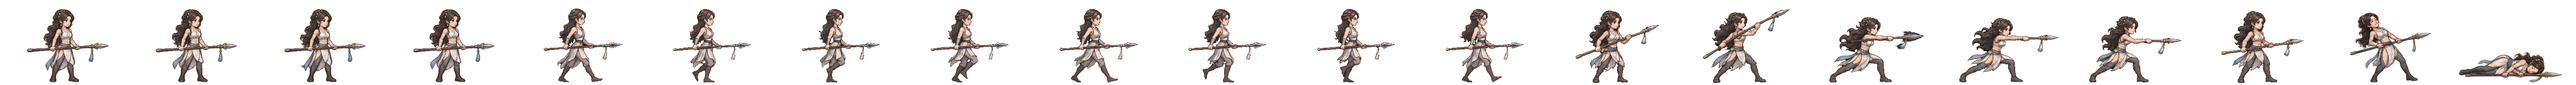
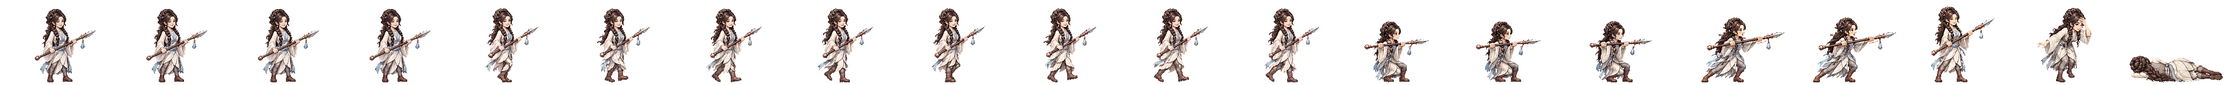
고룡 구름 새 전투 띠를 게임에 (창 · 새 찌르기 · 맞음 네 칸 · 개성 동작) · 끝까지 찌른 칸은 a4 로 · 자루 곧음 6배 확인
Claude-Session: https://claude.ai/code/session_01TRiuN7s6aDfSnaHxrkctmU

Changed region(s): [[0.0, 0.0938, 1.0, 0.9688]]

diff --git a/src/realm/data/spritePx.ts b/src/realm/data/spritePx.ts
@@ -1,3 +1,3 @@
 /** public/realm/anim-px/manifest.json 의 사본 — tools/sprite-normalize.mjs 가 만든다 (손으로 고치지 말 것). 칸 [가로, 세로] · feet = 발 줄(칸 위에서 y) · bodyPx = 서 있는 몸 키 */
 import { expandManifest } from './sprite-manifest.ts'
-export const SPRITE_PX: Readonly<Record<string, { readonly cell: readonly [number, number]; readonly feet: number; readonly bodyPx: number; readonly kind: 'general' | 'soldier' | 'folk' | 'crowd'; readonly cells: number }>> = expandManifest<{ readonly cell: readonly [number, number]; readonly feet: number; readonly bodyPx: number; readonly kind: 'general' | 'soldier' | 'folk' | 'crowd'; readonly cells: number }>([{"cell":[166,128],"feet":126,"bodyPx":124,"kind":"soldier","cells":20},{"cell":[116,128],"feet":126,"bodyPx":117,"kind":"soldier","cells":20},{"cell":[127,128],"feet":126,"bodyPx":116,"kind":"soldier","cells":20},{"cell":[269,128],"feet":126,"bodyPx":126,"kind":"soldier","cells":20},{"cell":[503,128],"feet":126,"bodyPx":127,"kind":"soldier","cells":20},{"cell":[614,128],"feet":126,"bodyPx":126,"kind":"soldier","cells":20},{"cell":[200,160],"feet":156,"bodyPx":138,"kind":"general","cells":20},{"cell":[208,160],"feet":155,"bodyPx":138,"kind":"general","cells":20},{"cell":[208,160],"feet":154,"bodyPx":138,"kind":"general","cells":20},{"cell":[304,160],"feet":155,"bodyPx":135,"kind":"general","cells":20},{"cell":[184,160],"feet":156,"bodyPx":138,"kind":"general","cells":20},{"cell":[208,160],"feet":154,"bodyPx":136,"kind":"general","cells":20},{"cell":[232,160],"feet":156,"bodyPx":138,"kind":"general","cells":20},{"cell":[208,160],"feet":156,"bodyPx":138,"kind":"general","cells":20},{"cell":[168,160],"feet":156,"bodyPx":124,"kind":"general","cells":20},{"cell":[216,160],"feet":156,"bodyPx":130,"kind":"general","cells":20},{"cell":[200,160],"feet":156,"bodyPx":116,"kind":"general","cells":20},{"cell":[192,160],"feet":156,"bodyPx":138,"kind":"general","cells":20},{"cell":[200,160],"feet":156,"bodyPx":135,"kind":"general","cells":20},{"cell":[280,160],"feet":156,"bodyPx":138,"kind":"general","cells":20},{"cell":[232,160],"feet":155,"bodyPx":138,"kind":"general","cells":20},{"cell":[232,160],"feet":156,"bodyPx":134,"kind":"general","cells":20},{"cell":[144,160],"feet":156,"bodyPx":70,"kind":"general","cells":20},{"cell":[208,160],"feet":156,"bodyPx":70,"kind":"general","cells":20},{"cell":[192,160],"feet":156,"bodyPx":70,"kind":"general","cells":20},{"cell":[240,160],"feet":155,"bodyPx":138,"kind":"general","cells":20},{"cell":[160,160],"feet":156,"bodyPx":135,"kind":"general","cells":20},{"cell":[192,160],"feet":156,"bodyPx":128,"kind":"general","cells":20},{"cell":[224,160],"feet":155,"bodyPx":138,"kind":"general","cells":20},{"cell":[232,160],"feet":156,"bodyPx":139,"kind":"general","cells":20},{"cell":[216,160],"feet":156,"bodyPx":138,"kind":"general","cells":20},{"cell":[208,160],"feet":156,"bodyPx":134,"kind":"general","cells":20},{"cell":[176,160],"feet":156,"bodyPx":130,"kind":"general","cells":20},{"cell":[248,160],"feet":156,"bodyPx":138,"kind":"general","cells":20},{"cell":[248,160],"feet":155,"bodyPx":138,"kind":"general","cells":20},{"cell":[192,160],"feet":155,"bodyPx":138,"kind":"general","cells":20},{"cell":[192,160],"feet":156,"bodyPx":124,"kind":"general","cells":20},{"cell":[208,160],"feet":154,"bodyPx":131,"kind":"general","cells":20},{"cell":[256,160],"feet":156,"bodyPx":138,"kind":"general","cells":20},{"cell":[240,160],"feet":156,"bodyPx":138,"kind":"general","cells":20},{"cell":[232,160],"feet":156,"bodyPx":73,"kind":"general","cells":20},{"cell":[256,160],"feet":155,"bodyPx":138,"kind":"general","cells":20},{"cell":[264,160],"feet":156,"bodyPx":138,"kind":"general","cells":20},{"cell":[224,160],"feet":156,"bodyPx":138,"kind":"general","cells":20},{"cell":[224,160],"feet":156,"bodyPx":128,"kind":"general","cells":20},{"cell":[176,160],"feet":156,"bodyPx":129,"kind":"general","cells":20},{"cell":[208,160],"feet":154,"bodyPx":139,"kind":"general","cells":20},{"cell":[208,160],"feet":156,"bodyPx":132,"kind":"general","cells":20},{"cell":[208,160],"feet":154,"bodyPx":137,"kind":"general","cells":20},{"cell":[184,160],"feet":156,"bodyPx":122,"kind":"general","cells":20},{"cell":[176,160],"feet":156,"bodyPx":138,"kind":"general","cells":20},{"cell":[280,160],"feet":155,"bodyPx":133,"kind":"general","cells":20},{"cell":[176,160],"feet":156,"bodyPx":70,"kind":"general","cells":20},{"cell":[186,128],"feet":126,"bodyPx":127,"kind":"soldier","cells":20},{"cell":[298,128],"feet":126,"bodyPx":126,"kind":"soldier","cells":20},{"cell":[82,128],"feet":126,"bodyPx":114,"kind":"folk","cells":8},{"cell":[134,128],"feet":126,"bodyPx":119,"kind":"soldier","cells":20},{"cell":[380,128],"feet":126,"bodyPx":124,"kind":"soldier","cells":20},{"cell":[114,128],"feet":126,"bodyPx":115,"kind":"soldier","cells":20},{"cell":[122,128],"feet":126,"bodyPx":114,"kind":"soldier","cells":20},{"cell":[254,128],"feet":126,"bodyPx":128,"kind":"soldier","cells":20},{"cell":[438,128],"feet":126,"bodyPx":126,"kind":"soldier","cells":20},{"cell":[88,128],"feet":126,"bodyPx":113,"kind":"folk","cells":8},{"cell":[100,128],"feet":126,"bodyPx":115,"kind":"folk","cells":8},{"cell":[108,128],"feet":126,"bodyPx":115,"kind":"folk","cells":8},{"cell":[63,128],"feet":126,"bodyPx":113,"kind":"folk","cells":8},{"cell":[69,96],"feet":96,"bodyPx":96,"kind":"crowd","cells":1},{"cell":[54,96],"feet":96,"bodyPx":96,"kind":"crowd","cells":1},{"cell":[47,96],"feet":96,"bodyPx":96,"kind":"crowd","cells":1},{"cell":[49,96],"feet":96,"bodyPx":96,"kind":"crowd","cells":1},{"cell":[57,96],"feet":96,"bodyPx":96,"kind":"crowd","cells":1},{"cell":[55,96],"feet":96,"bodyPx":96,"kind":"crowd","cells":1},{"cell":[45,96],"feet":96,"bodyPx":96,"kind":"crowd","cells":1},{"cell":[53,96],"feet":96,"bodyPx":96,"kind":"crowd","cells":1},{"cell":[64,96],"feet":96,"bodyPx":96,"kind":"crowd","cells":1},{"cell":[184,160],"feet":156,"bodyPx":124,"kind":"general","cells":20},{"cell":[184,160],"feet":156,"bodyPx":134,"kind":"general","cells":20},{"cell":[224,160],"feet":156,"bodyPx":133,"kind":"general","cells":20},{"cell":[192,160],"feet":156,"bodyPx":135,"kind":"general","cells":20},{"cell":[184,160],"feet":156,"bodyPx":137,"kind":"general","cells":20},{"cell":[216,160],"feet":156,"bodyPx":134,"kind":"general","cells":20},{"cell":[216,160],"feet":156,"bodyPx":132,"kind":"general","cells":20},{"cell":[288,160],"feet":156,"bodyPx":138,"kind":"general","cells":20},{"cell":[192,160],"feet":156,"bodyPx":118,"kind":"general","cells":20},{"cell":[208,160],"feet":154,"bodyPx":134,"kind":"general","cells":20},{"cell":[208,160],"feet":154,"bodyPx":128,"kind":"general","cells":20},{"cell":[240,160],"feet":156,"bodyPx":128,"kind":"general","cells":20},{"cell":[184,160],"feet":156,"bodyPx":132,"kind":"general","cells":20},{"cell":[208,160],"feet":156,"bodyPx":123,"kind":"general","cells":20},{"cell":[176,160],"feet":156,"bodyPx":116,"kind":"general","cells":20},{"cell":[272,160],"feet":156,"bodyPx":138,"kind":"general","cells":20},{"cell":[176,160],"feet":156,"bodyPx":122,"kind":"general","cells":20},{"cell":[232,160],"feet":156,"bodyPx":127,"kind":"general","cells":20},{"cell":[168,160],"feet":156,"bodyPx":138,"kind":"general","cells":20},{"cell":[176,160],"feet":156,"bodyPx":137,"kind":"general","cells":20},{"cell":[184,160],"feet":156,"bodyPx":133,"kind":"general","cells":20}],[["axe",0],["bandit-chief",1],["bandit-club",2],["boat",3],["bow",4],["crossbow",5],["gen-adogan",6],["gen-alpyeong",7],["gen-ara",8],["gen-areum",8],["gen-aryeong",9],["gen-bakdal",6],["gen-baram",8],["gen-bdanbi",10],["gen-beom",11],["gen-beombal",8],["gen-beomi",8],["gen-bira",12],["gen-biryu",13],["gen-budeul",8],["gen-byeol",8],["gen-daemusin",14],["gen-daeso",15],["gen-dallae2",10],["gen-dalli",8],["gen-damul",16],["gen-danbi",8],["gen-dangung",17],["gen-darae",18],["gen-dokmudeom",7],["gen-duman",19],["gen-eomni",20],["gen-eureum",21],["gen-g-bow",22],["gen-g-spear",23],["gen-g-sword",24],["gen-gaennae",6],["gen-gamsil",25],["gen-gaon",26],["gen-geota",13],["gen-geumbawi",10],["gen-geumha",27],["gen-goeun",13],["gen-gom",28],["gen-gomok",13],["gen-gureum",25],["gen-guryema",17],["gen-gwaeyu",12],["gen-haebi",8],["gen-haedal",6],["gen-haesol",29],["gen-halla",7],["gen-heo",8],["gen-hneoul",10],["gen-hogong",30],["gen-hojin",13],["gen-horselord",31],["gen-hwalmi",32],["gen-hyeokgeose",17],["gen-hyeopbo",6],["gen-irang",8],["gen-jibaekho",33],["gen-jinha",34],["gen-jita",35],["gen-jumong",36],["gen-keundol",7],["gen-maehwa",37],["gen-maenun",17],["gen-malgalgi",38],["gen-mari",39],["gen-maro",33],["gen-maryeo",13],["gen-mdallae",29],["gen-mir",6],["gen-mount",40],["gen-mulbeom",41],["gen-mulsae",30],["gen-musoe",30],["gen-noeul",8],["gen-nuri",42],["gen-ocheongan",43],["gen-odi",8],["gen-odogan",6],["gen-ogan",17],["gen-oi",44],["gen-olddaeso",21],["gen-onjo",45],["gen-pidogan",13],["gen-sagong",46],["gen-sdallae",6],["gen-sincheongan",30],["gen-singwigan",30],["gen-sinneoul",8],["gen-sobeol",20],["gen-soebi",6],["gen-soebo",47],["gen-soenun",33],["gen-sogeumbi",48],["gen-songbi",43],["gen-songyang",49],["gen-sori",50],["gen-soseono",51],["gen-suro",17],["gen-tahae",6],["gen-tneoul",8],["gen-w-bow",22],["gen-w-spear",52],["gen-waechief",13],["gen-wan",30],["gen-yeodogan",13],["gen-yucheongan",13],["gen-yusugan",33],["horse",53],["marine",54],["migrant",55],["militia",56],["pike",57],["pirate-captain",58],["pirate-sword",59],["shield",60],["spear",61],["villager-builder",62],["villager-farmer",63],["villager-porter",64],["villager-woman",65],["crowd-b1",66],["crowd-b2",67],["crowd-b3",68],["crowd-b4",69],["crowd-b5",70],["crowd-b6",71],["crowd-f1",66],["crowd-f2",71],["crowd-f3",72],["crowd-f4",73],["crowd-f5",66],["crowd-f6",74],["gen-dalbit",13],["gen-base-g-07-drunk-warrior",17],["gen-base-g-40-anya-adan",13],["gen-base-w-13-young-archer",8],["gen-base-g-03-sea-trader",39],["gen-base-w-10-pirate-captain",46],["gen-base-w-64-miri-dallae",46],["gen-base-g-41-goja-bau",39],["gen-base-g-42-dokro-garam",42],["gen-base-g-09-farmer-conscript",30],["gen-base-w-02-goguryeo-lady",30],["gen-base-w-17-mahan-pearl-diver",8],["gen-base-g-17-saro-isageum",47],["gen-base-g-18-daegaya-king",75],["gen-base-g-35-dabeol-dalgu",13],["gen-base-g-19-sabeol-veteran",30],["gen-base-w-23-usisan-whale-queen",8],["gen-base-g-36-gammun-gamdol",43],["gen-base-g-20-samul-sea-lord",38],["gen-base-g-37-eumjeup-jeup",10],["gen-base-g-38-chopal-palmae",17],["gen-base-w-75-daegaya-soemoe",17],["gen-base-g-45-dabeol-deulgae",10],["gen-base-g-04-jinhan-giant",13],["gen-base-g-08-veteran",13],["gen-base-w-18-jinhan-salt-widow",8],["gen-base-w-12-court-dancer",76],["gen-base-w-83-gyeonji-beodeul",77],["gen-base-w-05-baekje-queen",78],["gen-base-w-21-baekje-court-dancer",10],["gen-base-g-01-master-smith",79],["gen-base-g-93-jomun-solgae",32],["gen-base-g-57-bihwa-neup",39],["gen-base-w-72-eumjeup-beol",8],["gen-base-w-102-garak-dana",46],["gen-base-g-68-baekje-onnuri",13],["gen-base-w-27-mokji-jinha",6],["gen-base-g-22-ungcheon-gomnae",6],["gen-base-g-23-sangdang-soedal",13],["gen-base-g-24-wansan-onsan",6],["gen-base-g-25-balla-keunmoe",30],["gen-base-g-61-heomcheuk-bawi",30],["gen-base-g-88-wander-soeul",43],["gen-base-w-14-feast-spy",6],["gen-base-g-12-silla-youth",80],["gen-base-w-08-mahan-warrior",8],["gen-base-g-62-beonye-hanul",39],["gen-base-g-63-heomcheuk-beogeum",13],["gen-base-g-84-wander-seoneul",13],["gen-base-w-50-siljik-mulga",30],["gen-base-g-46-uga-nureongso",30],["gen-base-w-80-usan-gangchi",46],["gen-base-g-47-guga-sanyanggae",30],["gen-base-w-76-gampyeong-baetsagong",8],["gen-base-g-05-mahan-chieftain",81],["gen-base-g-58-usan-uhae",13],["gen-base-g-27-maek-maekdol",13],["gen-base-w-53-hwanna-gabi",46],["gen-base-w-29-golpo-janmul",33],["gen-base-g-53-baekje-haeru",6],["gen-base-w-71-yeonna-neoul",8],["gen-base-w-79-yangmaek-solmae",8],["gen-base-w-34-chopal-deulme",8],["gen-base-g-44-maga-malgup",82],["gen-base-w-31-dabeol-dalbit",46],["gen-base-g-51-biryuna-mulgyeol",43],["gen-base-g-48-gwanna-musoe",13],["gen-base-g-32-uga-sodu",12],["gen-base-g-49-goguryeo-sona",83],["gen-base-g-30-gwanna-soemoe",43],["gen-base-g-52-tamna-oreum",10],["gen-base-g-29-yeonna-myeongsol",36],["gen-base-w-56-dongokjeo-sogeum",84],["gen-base-g-54-mokji-mahan",12],["gen-base-g-33-jeoga-metdol",17],["gen-base-w-36-baekje-maena",8],["gen-base-w-38-sangdang-bulmae",6],["gen-base-w-39-gosaburi-galmae",8],["gen-base-w-40-mujin-munui",47],["gen-base-w-41-hwanna-beodeul",85],["gen-base-w-43-uga-nuri",38],["gen-base-w-45-tamna-oreumbi",10],["gen-base-g-60-golbeol-golgae",10],["gen-base-g-61-apdok-ap",30],["gen-base-g-62-gammun-gamnamu",6],["gen-base-g-63-chopal-yeoul",33],["gen-base-g-64-michuhol-sogeumkkun",39],["gen-base-g-65-sangdang-soemangchi",43],["gen-base-g-66-geonma-malbalgup",86],["gen-base-g-67-gosaburi-buri",87],["gen-base-g-68-mujin-bitgoeul",10],["gen-base-g-69-goryong-yong",43],["gen-base-g-70-siljik-pado",39],["gen-base-w-81-byeokjin-byeolbit",8],["gen-base-w-46-geonma-maru",8],["gen-base-w-48-mujin-mudeung",8],["gen-base-g-26-gampyeong-gaetbeol",12],["gen-base-g-60-eupcha-hangyeol",88],["gen-base-g-15-shaman-man",30],["gen-base-g-85-wander-ure",33],["gen-base-g-43-hwanna-amnok",13],["gen-base-g-50-bullae-gwaha",78],["gen-base-g-55-saro-bakdal",13],["gen-base-g-56-haseulla-gwahama",6],["gen-base-w-06-buyeo-huntress",48],["gen-base-w-22-dongye-tiger-huntress",8],["gen-base-w-25-bihwa-priestess",30],["gen-base-w-24-apdok-queen",10],["gen-base-w-61-iseo-sinae",13],["gen-base-w-26-iseo-tomboy-general",8],["gen-base-g-59-yangmaek-maekson",89],["gen-aw1-haebi",43],["gen-aw1-soseono",90],["gen-aw1-gamsil",10],["gen-aw1-mir",50],["gen-aw1-dangung",6],["gen-aw1-ara",43],["gen-aw1-jumong",91],["gen-aw1-onjo",92],["gen-aw1-base-w-83-gyeonji-beodeul",17],["gen-aw1-heo",42],["gen-aw1-base-g-38-chopal-palmae",6],["gen-aw1-base-w-25-bihwa-priestess",76],["gen-aw1-sori",93],["gen-aw1-gomok",6],["gen-aw1-irang",17],["gen-aw1-budeul",93],["gen-aw1-gom",39],["gen-aw1-sdallae",6],["gen-aw1-base-w-13-young-archer",6],["gen-aw1-base-w-36-baekje-maena",94],["gen-aw1-base-g-09-farmer-conscript",42],["gen-aw1-base-w-02-goguryeo-lady",95],["gen-aw1-haedal",10],["gen-aw1-hogong",6],["gen-aw1-maehwa",50],["gen-aw1-base-w-06-buyeo-huntress",12],["gen-aw1-base-w-08-mahan-warrior",43],["gen-aw1-base-w-29-golpo-janmul",43],["gen-aw1-base-w-31-dabeol-dalbit",17],["gen-aw1-base-w-38-sangdang-bulmae",93],["gen-aw1-bira",30],["gen-aw1-base-w-53-hwanna-gabi",93],["gen-aw1-base-w-56-dongokjeo-sogeum",50],["gen-aw1-base-w-72-eumjeup-beol",17],["gen-aw1-bdanbi",93],["gen-aw1-beom",10],["gen-aw1-beombal",10],["gen-aw1-byeol",17],["gen-aw1-dalli",50],["gen-aw1-malgalgi",33],["gen-aw1-sincheongan",30]])
+export const SPRITE_PX: Readonly<Record<string, { readonly cell: readonly [number, number]; readonly feet: number; readonly bodyPx: number; readonly kind: 'general' | 'soldier' | 'folk' | 'crowd'; readonly cells: number }>> = expandManifest<{ readonly cell: readonly [number, number]; readonly feet: number; readonly bodyPx: number; readonly kind: 'general' | 'soldier' | 'folk' | 'crowd'; readonly cells: number }>([{"cell":[166,128],"feet":126,"bodyPx":124,"kind":"soldier","cells":20},{"cell":[116,128],"feet":126,"bodyPx":117,"kind":"soldier","cells":20},{"cell":[127,128],"feet":126,"bodyPx":116,"kind":"soldier","cells":20},{"cell":[269,128],"feet":126,"bodyPx":126,"kind":"soldier","cells":20},{"cell":[503,128],"feet":126,"bodyPx":127,"kind":"soldier","cells":20},{"cell":[614,128],"feet":126,"bodyPx":126,"kind":"soldier","cells":20},{"cell":[200,160],"feet":156,"bodyPx":138,"kind":"general","cells":20},{"cell":[208,160],"feet":155,"bodyPx":138,"kind":"general","cells":20},{"cell":[208,160],"feet":154,"bodyPx":138,"kind":"general","cells":20},{"cell":[304,160],"feet":155,"bodyPx":135,"kind":"general","cells":20},{"cell":[184,160],"feet":156,"bodyPx":138,"kind":"general","cells":20},{"cell":[208,160],"feet":154,"bodyPx":136,"kind":"general","cells":20},{"cell":[232,160],"feet":156,"bodyPx":138,"kind":"general","cells":20},{"cell":[208,160],"feet":156,"bodyPx":138,"kind":"general","cells":20},{"cell":[168,160],"feet":156,"bodyPx":124,"kind":"general","cells":20},{"cell":[216,160],"feet":156,"bodyPx":130,"kind":"general","cells":20},{"cell":[200,160],"feet":156,"bodyPx":116,"kind":"general","cells":20},{"cell":[192,160],"feet":156,"bodyPx":138,"kind":"general","cells":20},{"cell":[200,160],"feet":156,"bodyPx":135,"kind":"general","cells":20},{"cell":[280,160],"feet":156,"bodyPx":138,"kind":"general","cells":20},{"cell":[232,160],"feet":155,"bodyPx":138,"kind":"general","cells":20},{"cell":[232,160],"feet":156,"bodyPx":134,"kind":"general","cells":20},{"cell":[144,160],"feet":156,"bodyPx":70,"kind":"general","cells":20},{"cell":[208,160],"feet":156,"bodyPx":70,"kind":"general","cells":20},{"cell":[192,160],"feet":156,"bodyPx":70,"kind":"general","cells":20},{"cell":[240,160],"feet":155,"bodyPx":138,"kind":"general","cells":20},{"cell":[160,160],"feet":156,"bodyPx":135,"kind":"general","cells":20},{"cell":[192,160],"feet":156,"bodyPx":128,"kind":"general","cells":20},{"cell":[224,160],"feet":155,"bodyPx":138,"kind":"general","cells":20},{"cell":[232,160],"feet":156,"bodyPx":139,"kind":"general","cells":20},{"cell":[216,160],"feet":156,"bodyPx":138,"kind":"general","cells":20},{"cell":[208,160],"feet":156,"bodyPx":134,"kind":"general","cells":20},{"cell":[176,160],"feet":156,"bodyPx":130,"kind":"general","cells":20},{"cell":[248,160],"feet":156,"bodyPx":138,"kind":"general","cells":20},{"cell":[248,160],"feet":155,"bodyPx":138,"kind":"general","cells":20},{"cell":[192,160],"feet":155,"bodyPx":138,"kind":"general","cells":20},{"cell":[192,160],"feet":156,"bodyPx":124,"kind":"general","cells":20},{"cell":[208,160],"feet":154,"bodyPx":131,"kind":"general","cells":20},{"cell":[256,160],"feet":156,"bodyPx":138,"kind":"general","cells":20},{"cell":[240,160],"feet":156,"bodyPx":138,"kind":"general","cells":20},{"cell":[232,160],"feet":156,"bodyPx":73,"kind":"general","cells":20},{"cell":[256,160],"feet":155,"bodyPx":138,"kind":"general","cells":20},{"cell":[264,160],"feet":156,"bodyPx":138,"kind":"general","cells":20},{"cell":[224,160],"feet":156,"bodyPx":138,"kind":"general","cells":20},{"cell":[224,160],"feet":156,"bodyPx":128,"kind":"general","cells":20},{"cell":[176,160],"feet":156,"bodyPx":129,"kind":"general","cells":20},{"cell":[208,160],"feet":154,"bodyPx":139,"kind":"general","cells":20},{"cell":[208,160],"feet":156,"bodyPx":132,"kind":"general","cells":20},{"cell":[208,160],"feet":154,"bodyPx":137,"kind":"general","cells":20},{"cell":[184,160],"feet":156,"bodyPx":122,"kind":"general","cells":20},{"cell":[176,160],"feet":156,"bodyPx":138,"kind":"general","cells":20},{"cell":[280,160],"feet":155,"bodyPx":133,"kind":"general","cells":20},{"cell":[176,160],"feet":156,"bodyPx":70,"kind":"general","cells":20},{"cell":[186,128],"feet":126,"bodyPx":127,"kind":"soldier","cells":20},{"cell":[298,128],"feet":126,"bodyPx":126,"kind":"soldier","cells":20},{"cell":[82,128],"feet":126,"bodyPx":114,"kind":"folk","cells":8},{"cell":[134,128],"feet":126,"bodyPx":119,"kind":"soldier","cells":20},{"cell":[380,128],"feet":126,"bodyPx":124,"kind":"soldier","cells":20},{"cell":[114,128],"feet":126,"bodyPx":115,"kind":"soldier","cells":20},{"cell":[122,128],"feet":126,"bodyPx":114,"kind":"soldier","cells":20},{"cell":[254,128],"feet":126,"bodyPx":128,"kind":"soldier","cells":20},{"cell":[438,128],"feet":126,"bodyPx":126,"kind":"soldier","cells":20},{"cell":[88,128],"feet":126,"bodyPx":113,"kind":"folk","cells":8},{"cell":[100,128],"feet":126,"bodyPx":115,"kind":"folk","cells":8},{"cell":[108,128],"feet":126,"bodyPx":115,"kind":"folk","cells":8},{"cell":[63,128],"feet":126,"bodyPx":113,"kind":"folk","cells":8},{"cell":[69,96],"feet":96,"bodyPx":96,"kind":"crowd","cells":1},{"cell":[54,96],"feet":96,"bodyPx":96,"kind":"crowd","cells":1},{"cell":[47,96],"feet":96,"bodyPx":96,"kind":"crowd","cells":1},{"cell":[49,96],"feet":96,"bodyPx":96,"kind":"crowd","cells":1},{"cell":[57,96],"feet":96,"bodyPx":96,"kind":"crowd","cells":1},{"cell":[55,96],"feet":96,"bodyPx":96,"kind":"crowd","cells":1},{"cell":[45,96],"feet":96,"bodyPx":96,"kind":"crowd","cells":1},{"cell":[53,96],"feet":96,"bodyPx":96,"kind":"crowd","cells":1},{"cell":[64,96],"feet":96,"bodyPx":96,"kind":"crowd","cells":1},{"cell":[184,160],"feet":156,"bodyPx":124,"kind":"general","cells":20},{"cell":[184,160],"feet":156,"bodyPx":134,"kind":"general","cells":20},{"cell":[224,160],"feet":156,"bodyPx":133,"kind":"general","cells":20},{"cell":[192,160],"feet":156,"bodyPx":135,"kind":"general","cells":20},{"cell":[184,160],"feet":156,"bodyPx":137,"kind":"general","cells":20},{"cell":[216,160],"feet":156,"bodyPx":134,"kind":"general","cells":20},{"cell":[216,160],"feet":156,"bodyPx":132,"kind":"general","cells":20},{"cell":[288,160],"feet":156,"bodyPx":138,"kind":"general","cells":20},{"cell":[192,160],"feet":156,"bodyPx":118,"kind":"general","cells":20},{"cell":[208,160],"feet":154,"bodyPx":134,"kind":"general","cells":20},{"cell":[208,160],"feet":154,"bodyPx":128,"kind":"general","cells":20},{"cell":[240,160],"feet":156,"bodyPx":128,"kind":"general","cells":20},{"cell":[184,160],"feet":156,"bodyPx":132,"kind":"general","cells":20},{"cell":[208,160],"feet":156,"bodyPx":123,"kind":"general","cells":20},{"cell":[176,160],"feet":156,"bodyPx":116,"kind":"general","cells":20},{"cell":[272,160],"feet":156,"bodyPx":138,"kind":"general","cells":20},{"cell":[176,160],"feet":156,"bodyPx":122,"kind":"general","cells":20},{"cell":[232,160],"feet":156,"bodyPx":127,"kind":"general","cells":20},{"cell":[168,160],"feet":156,"bodyPx":138,"kind":"general","cells":20},{"cell":[176,160],"feet":156,"bodyPx":137,"kind":"general","cells":20},{"cell":[184,160],"feet":156,"bodyPx":133,"kind":"general","cells":20}],[["axe",0],["bandit-chief",1],["bandit-club",2],["boat",3],["bow",4],["crossbow",5],["gen-adogan",6],["gen-alpyeong",7],["gen-ara",8],["gen-areum",8],["gen-aryeong",9],["gen-bakdal",6],["gen-baram",8],["gen-bdanbi",10],["gen-beom",11],["gen-beombal",8],["gen-beomi",8],["gen-bira",12],["gen-biryu",13],["gen-budeul",8],["gen-byeol",8],["gen-daemusin",14],["gen-daeso",15],["gen-dallae2",10],["gen-dalli",8],["gen-damul",16],["gen-danbi",8],["gen-dangung",17],["gen-darae",18],["gen-dokmudeom",7],["gen-duman",19],["gen-eomni",20],["gen-eureum",21],["gen-g-bow",22],["gen-g-spear",23],["gen-g-sword",24],["gen-gaennae",6],["gen-gamsil",25],["gen-gaon",26],["gen-geota",13],["gen-geumbawi",10],["gen-geumha",27],["gen-goeun",13],["gen-gom",28],["gen-gomok",13],["gen-gureum",8],["gen-guryema",17],["gen-gwaeyu",12],["gen-haebi",8],["gen-haedal",6],["gen-haesol",29],["gen-halla",7],["gen-heo",8],["gen-hneoul",10],["gen-hogong",30],["gen-hojin",13],["gen-horselord",31],["gen-hwalmi",32],["gen-hyeokgeose",17],["gen-hyeopbo",6],["gen-irang",8],["gen-jibaekho",33],["gen-jinha",34],["gen-jita",35],["gen-jumong",36],["gen-keundol",7],["gen-maehwa",37],["gen-maenun",17],["gen-malgalgi",38],["gen-mari",39],["gen-maro",33],["gen-maryeo",13],["gen-mdallae",29],["gen-mir",6],["gen-mount",40],["gen-mulbeom",41],["gen-mulsae",30],["gen-musoe",30],["gen-noeul",8],["gen-nuri",42],["gen-ocheongan",43],["gen-odi",8],["gen-odogan",6],["gen-ogan",17],["gen-oi",44],["gen-olddaeso",21],["gen-onjo",45],["gen-pidogan",13],["gen-sagong",46],["gen-sdallae",6],["gen-sincheongan",30],["gen-singwigan",30],["gen-sinneoul",8],["gen-sobeol",20],["gen-soebi",6],["gen-soebo",47],["gen-soenun",33],["gen-sogeumbi",48],["gen-songbi",43],["gen-songyang",49],["gen-sori",50],["gen-soseono",51],["gen-suro",17],["gen-tahae",6],["gen-tneoul",8],["gen-w-bow",22],["gen-w-spear",52],["gen-waechief",13],["gen-wan",30],["gen-yeodogan",13],["gen-yucheongan",13],["gen-yusugan",33],["horse",53],["marine",54],["migrant",55],["militia",56],["pike",57],["pirate-captain",58],["pirate-sword",59],["shield",60],["spear",61],["villager-builder",62],["villager-farmer",63],["villager-porter",64],["villager-woman",65],["crowd-b1",66],["crowd-b2",67],["crowd-b3",68],["crowd-b4",69],["crowd-b5",70],["crowd-b6",71],["crowd-f1",66],["crowd-f2",71],["crowd-f3",72],["crowd-f4",73],["crowd-f5",66],["crowd-f6",74],["gen-dalbit",13],["gen-base-g-07-drunk-warrior",17],["gen-base-g-40-anya-adan",13],["gen-base-w-13-young-archer",8],["gen-base-g-03-sea-trader",39],["gen-base-w-10-pirate-captain",46],["gen-base-w-64-miri-dallae",46],["gen-base-g-41-goja-bau",39],["gen-base-g-42-dokro-garam",42],["gen-base-g-09-farmer-conscript",30],["gen-base-w-02-goguryeo-lady",30],["gen-base-w-17-mahan-pearl-diver",8],["gen-base-g-17-saro-isageum",47],["gen-base-g-18-daegaya-king",75],["gen-base-g-35-dabeol-dalgu",13],["gen-base-g-19-sabeol-veteran",30],["gen-base-w-23-usisan-whale-queen",8],["gen-base-g-36-gammun-gamdol",43],["gen-base-g-20-samul-sea-lord",38],["gen-base-g-37-eumjeup-jeup",10],["gen-base-g-38-chopal-palmae",17],["gen-base-w-75-daegaya-soemoe",17],["gen-base-g-45-dabeol-deulgae",10],["gen-base-g-04-jinhan-giant",13],["gen-base-g-08-veteran",13],["gen-base-w-18-jinhan-salt-widow",8],["gen-base-w-12-court-dancer",76],["gen-base-w-83-gyeonji-beodeul",77],["gen-base-w-05-baekje-queen",78],["gen-base-w-21-baekje-court-dancer",10],["gen-base-g-01-master-smith",79],["gen-base-g-93-jomun-solgae",32],["gen-base-g-57-bihwa-neup",39],["gen-base-w-72-eumjeup-beol",8],["gen-base-w-102-garak-dana",46],["gen-base-g-68-baekje-onnuri",13],["gen-base-w-27-mokji-jinha",6],["gen-base-g-22-ungcheon-gomnae",6],["gen-base-g-23-sangdang-soedal",13],["gen-base-g-24-wansan-onsan",6],["gen-base-g-25-balla-keunmoe",30],["gen-base-g-61-heomcheuk-bawi",30],["gen-base-g-88-wander-soeul",43],["gen-base-w-14-feast-spy",6],["gen-base-g-12-silla-youth",80],["gen-base-w-08-mahan-warrior",8],["gen-base-g-62-beonye-hanul",39],["gen-base-g-63-heomcheuk-beogeum",13],["gen-base-g-84-wander-seoneul",13],["gen-base-w-50-siljik-mulga",30],["gen-base-g-46-uga-nureongso",30],["gen-base-w-80-usan-gangchi",46],["gen-base-g-47-guga-sanyanggae",30],["gen-base-w-76-gampyeong-baetsagong",8],["gen-base-g-05-mahan-chieftain",81],["gen-base-g-58-usan-uhae",13],["gen-base-g-27-maek-maekdol",13],["gen-base-w-53-hwanna-gabi",46],["gen-base-w-29-golpo-janmul",33],["gen-base-g-53-baekje-haeru",6],["gen-base-w-71-yeonna-neoul",8],["gen-base-w-79-yangmaek-solmae",8],["gen-base-w-34-chopal-deulme",8],["gen-base-g-44-maga-malgup",82],["gen-base-w-31-dabeol-dalbit",46],["gen-base-g-51-biryuna-mulgyeol",43],["gen-base-g-48-gwanna-musoe",13],["gen-base-g-32-uga-sodu",12],["gen-base-g-49-goguryeo-sona",83],["gen-base-g-30-gwanna-soemoe",43],["gen-base-g-52-tamna-oreum",10],["gen-base-g-29-yeonna-myeongsol",36],["gen-base-w-56-dongokjeo-sogeum",84],["gen-base-g-54-mokji-mahan",12],["gen-base-g-33-jeoga-metdol",17],["gen-base-w-36-baekje-maena",8],["gen-base-w-38-sangdang-bulmae",6],["gen-base-w-39-gosaburi-galmae",8],["gen-base-w-40-mujin-munui",47],["gen-base-w-41-hwanna-beodeul",85],["gen-base-w-43-uga-nuri",38],["gen-base-w-45-tamna-oreumbi",10],["gen-base-g-60-golbeol-golgae",10],["gen-base-g-61-apdok-ap",30],["gen-base-g-62-gammun-gamnamu",6],["gen-base-g-63-chopal-yeoul",33],["gen-base-g-64-michuhol-sogeumkkun",39],["gen-base-g-65-sangdang-soemangchi",43],["gen-base-g-66-geonma-malbalgup",86],["gen-base-g-67-gosaburi-buri",87],["gen-base-g-68-mujin-bitgoeul",10],["gen-base-g-69-goryong-yong",43],["gen-base-g-70-siljik-pado",39],["gen-base-w-81-byeokjin-byeolbit",8],["gen-base-w-46-geonma-maru",8],["gen-base-w-48-mujin-mudeung",8],["gen-base-g-26-gampyeong-gaetbeol",12],["gen-base-g-60-eupcha-hangyeol",88],["gen-base-g-15-shaman-man",30],["gen-base-g-85-wander-ure",33],["gen-base-g-43-hwanna-amnok",13],["gen-base-g-50-bullae-gwaha",78],["gen-base-g-55-saro-bakdal",13],["gen-base-g-56-haseulla-gwahama",6],["gen-base-w-06-buyeo-huntress",48],["gen-base-w-22-dongye-tiger-huntress",8],["gen-base-w-25-bihwa-priestess",30],["gen-base-w-24-apdok-queen",10],["gen-base-w-61-iseo-sinae",13],["gen-base-w-26-iseo-tomboy-general",8],["gen-base-g-59-yangmaek-maekson",89],["gen-aw1-haebi",43],["gen-aw1-soseono",90],["gen-aw1-gamsil",10],["gen-aw1-mir",50],["gen-aw1-dangung",6],["gen-aw1-ara",43],["gen-aw1-jumong",91],["gen-aw1-onjo",92],["gen-aw1-base-w-83-gyeonji-beodeul",17],["gen-aw1-heo",42],["gen-aw1-base-g-38-chopal-palmae",6],["gen-aw1-base-w-25-bihwa-priestess",76],["gen-aw1-sori",93],["gen-aw1-gomok",6],["gen-aw1-irang",17],["gen-aw1-budeul",93],["gen-aw1-gom",39],["gen-aw1-sdallae",6],["gen-aw1-base-w-13-young-archer",6],["gen-aw1-base-w-36-baekje-maena",94],["gen-aw1-base-g-09-farmer-conscript",42],["gen-aw1-base-w-02-goguryeo-lady",95],["gen-aw1-haedal",10],["gen-aw1-hogong",6],["gen-aw1-maehwa",50],["gen-aw1-base-w-06-buyeo-huntress",12],["gen-aw1-base-w-08-mahan-warrior",43],["gen-aw1-base-w-29-golpo-janmul",43],["gen-aw1-base-w-31-dabeol-dalbit",17],["gen-aw1-base-w-38-sangdang-bulmae",93],["gen-aw1-bira",30],["gen-aw1-base-w-53-hwanna-gabi",93],["gen-aw1-base-w-56-dongokjeo-sogeum",50],["gen-aw1-base-w-72-eumjeup-beol",17],["gen-aw1-bdanbi",93],["gen-aw1-beom",10],["gen-aw1-beombal",10],["gen-aw1-byeol",17],["gen-aw1-dalli",50],["gen-aw1-malgalgi",33],["gen-aw1-sincheongan",30]])

diff --git a/src/duel/view.ts b/src/duel/view.ts
@@ -100,7 +100,7 @@ const crowdFront = [1, 2, 3, 4, 5, 6].map((i) => img(`realm/duel/crowd/b${i}.png
 const crowdReady = (set: HTMLImageElement[]): boolean => set.every((im) => im.complete && im.naturalWidth > 0)
 const pxMode = cfg.px !== false && params.get('px') !== '0'
 /** 겨루기 전용 옛 띠(duel/sprites) 대신 열전과 같은 도트 띠(anim-px)를 쓰는 장수 — 두 판에서 같은 모습 · 서기 계획·쓰러지는 칸도 같다 (11-23 범 · 매화 · 달빛 · 11-24 해비 · 아룸) */
-const PX_DUEL: ReadonlySet<string> = new Set(['beom', 'maehwa', 'base-w-31-dabeol-dalbit', 'haebi', 'areum', 'base-w-13-young-archer', 'base-w-10-pirate-captain', 'base-w-17-mahan-pearl-diver', 'base-w-06-buyeo-huntress', 'base-w-64-miri-dallae', 'ara', 'base-w-22-dongye-tiger-huntress', 'noeul', 'sagong', 'sinneoul', 'heo', 'base-w-08-mahan-warrior', 'base-w-23-usisan-whale-queen', 'base-w-26-iseo-tomboy-general', 'base-w-72-eumjeup-beol', 'tneoul', 'odi', 'base-w-76-gampyeong-baetsagong', 'base-w-34-chopal-deulme', 'base-w-102-garak-dana', 'base-w-36-baekje-maena', 'base-w-56-dongokjeo-sogeum', 'budeul', 'base-w-53-hwanna-gabi', 'base-w-18-jinhan-salt-widow', 'beombal', 'irang', 'sogeumbi', 'baram', 'byeol', 'base-w-71-yeonna-neoul', 'base-w-39-gosaburi-galmae', 'base-w-41-hwanna-beodeul', 'base-w-79-yangmaek-solmae', 'base-w-46-geonma-maru', 'base-w-48-mujin-mudeung', 'base-w-80-usan-gangchi', 'base-w-81-byeokjin-byeolbit', 'beomi', 'danbi', 'dalli'])
+const PX_DUEL: ReadonlySet<string> = new Set(['beom', 'maehwa', 'base-w-31-dabeol-dalbit', 'haebi', 'areum', 'base-w-13-young-archer', 'base-w-10-pirate-captain', 'base-w-17-mahan-pearl-diver', 'base-w-06-buyeo-huntress', 'base-w-64-miri-dallae', 'ara', 'base-w-22-dongye-tiger-huntress', 'noeul', 'sagong', 'sinneoul', 'heo', 'base-w-08-mahan-warrior', 'base-w-23-usisan-whale-queen', 'base-w-26-iseo-tomboy-general', 'base-w-72-eumjeup-beol', 'tneoul', 'odi', 'base-w-76-gampyeong-baetsagong', 'base-w-34-chopal-deulme', 'base-w-102-garak-dana', 'base-w-36-baekje-maena', 'base-w-56-dongokjeo-sogeum', 'budeul', 'base-w-53-hwanna-gabi', 'base-w-18-jinhan-salt-widow', 'beombal', 'irang', 'sogeumbi', 'baram', 'byeol', 'base-w-71-yeonna-neoul', 'base-w-39-gosaburi-galmae', 'base-w-41-hwanna-beodeul', 'base-w-79-yangmaek-solmae', 'base-w-46-geonma-maru', 'base-w-48-mujin-mudeung', 'base-w-80-usan-gangchi', 'base-w-81-byeokjin-byeolbit', 'beomi', 'danbi', 'dalli', 'gureum'])
 /** 띠 그림 — 기본은 anim-px(도트 규격) 먼저, 없으면 옛 띠로 (img 의 onerror 가 갈아 끼운다) */
 const strip = (s: string): HTMLImageElement => pxMode
   ? DUEL_ATLASES[s] !== undefined && !PX_DUEL.has(s) ? img(`realm/duel/sprites/gen-${s}.png`, `realm/anim-px/gen-${s}.png`)

diff --git a/src/tune/params.ts b/src/tune/params.ts
@@ -1465,6 +1465,7 @@ export const HAEBI_IDLE = {
     beomi: { cells: 38, base: [0, 1], hold: 2.4, fall: [18, 20, 21, 19], quirk: [22, 23, 24, 25], quirkTimes: [.3, .32, .4, .28], attack: { cells: [26, 27, 28, 29, 30, 31, 32, 33], times: [.09, .08, .11, .12, .12, .08, .08, .12], hit: 3 }, hurt: [34, 35], rise: [36, 37], xGeom: { h: 224, root: 92, foot: 216 } },
     danbi: { cells: 26, base: [0, 1], hold: 2.4, fall: [18, 20, 21, 19], quirk: [22, 23, 24, 25], quirkTimes: [.28, .3, .42, .25] },
     dalli: { cells: 26, base: [0, 1], hold: 2.4, fall: [18, 20, 21, 19], quirk: [22, 23, 24, 25], quirkTimes: [.28, .3, .42, .25] },
+    gureum: { cells: 38, base: [0, 1], hold: 2.4, fall: [18, 20, 21, 19], quirk: [22, 23, 24, 25], quirkTimes: [.3, .32, .4, .28], attack: { cells: [26, 27, 28, 29, 30, 31, 32, 33], times: [.09, .08, .11, .12, .12, .08, .08, .12], hit: 3 }, hurt: [34, 35], rise: [36, 37], xGeom: { h: 224, root: 92, foot: 216 } },
   },
 } as const
 export const HAEBI_ANIM = {

diff --git a/tools/sprite-kit/anim-harness.py b/tools/sprite-kit/anim-harness.py
@@ -84,7 +84,7 @@ HEROES = {
     'byeolbit': dict(hit=True, strip='gen-base-w-81-byeokjin-byeolbit', atk='thrust', src='thrust2', actw=264, refoot=True, atk8=True, act=True, legacy=(('a', 2), ('a', 3), ('b', 3), ('b', 4)), cells8=[('a', 1), ('a', 2), ('a', 3), ('a', 4), ('a', 4), ('a', 4), ('b', 3), ('b', 4)]),   # 벽진 별빛(창 · 비늘 갑옷 · 가슴 M) · 여섯째 묶음
     'beomi': dict(hit=True, strip='gen-beomi', atk='thrust', src='thrust2', actw=264, refoot=True, atk8=True, act=True, legacy=(('a', 2), ('a', 3), ('b', 3), ('b', 4)), cells8=[('a', 1), ('a', 2), ('a', 3), ('a', 4), ('a', 4), ('a', 4), ('b', 3), ('b', 4)]),   # 사로 범이(범가죽 · 창 · 우람한 뼈대) · 여덟째 묶음
     'eomni': dict(hit=True, strip='gen-eomni', atk='thrust', src='thrust2', actw=264, refoot=True, atk8=True, act=True, legacy=(('a', 2), ('a', 3), ('b', 3), ('b', 4))),   # 저가 엄니(털 망토 · 창 · 가슴 M) · 여덟째 묶음
-    'gureum': dict(hit=True, strip='gen-gureum', atk='thrust', src='thrust2', actw=264, refoot=True, atk8=True, act=True, legacy=(('a', 2), ('a', 3), ('b', 3), ('b', 4))),   # 고룡 구름(창 · 가슴 M) · 여덟째 묶음
+    'gureum': dict(hit=True, strip='gen-gureum', atk='thrust', src='thrust2', actw=264, refoot=True, atk8=True, act=True, legacy=(('a', 2), ('a', 3), ('b', 3), ('b', 4)), cells8=[('a', 1), ('a', 2), ('a', 3), ('a', 4), ('a', 4), ('a', 4), ('b', 3), ('b', 4)]),   # 고룡 구름(창 · 가슴 M) · 여덟째 묶음
     'haesol': dict(hit=True, strip='gen-haesol', atk='thrust', src='thrust2', actw=264, refoot=True, atk8=True, act=True, legacy=(('a', 2), ('a', 3), ('b', 3), ('b', 4))),   # 우시산 해솔(가는 창 · 가슴 M) · 여덟째 묶음
     'soenun': dict(hit=True, strip='gen-soenun', atk='thrust', src='thrust2', actw=264, refoot=True, atk8=True, act=True, legacy=(('a', 2), ('a', 3), ('b', 3), ('b', 4))),   # 관나 쇠눈(비늘 갑옷 · 창) · 여덟째 묶음
     'haebi': dict(hit=True, strip='gen-haebi', atk='chop', atk8=True, act=True),   # act = 공격 여덟 칸이 넓은 동작 칸(240×224 · 뿌리 92 · 발 줄 216)
